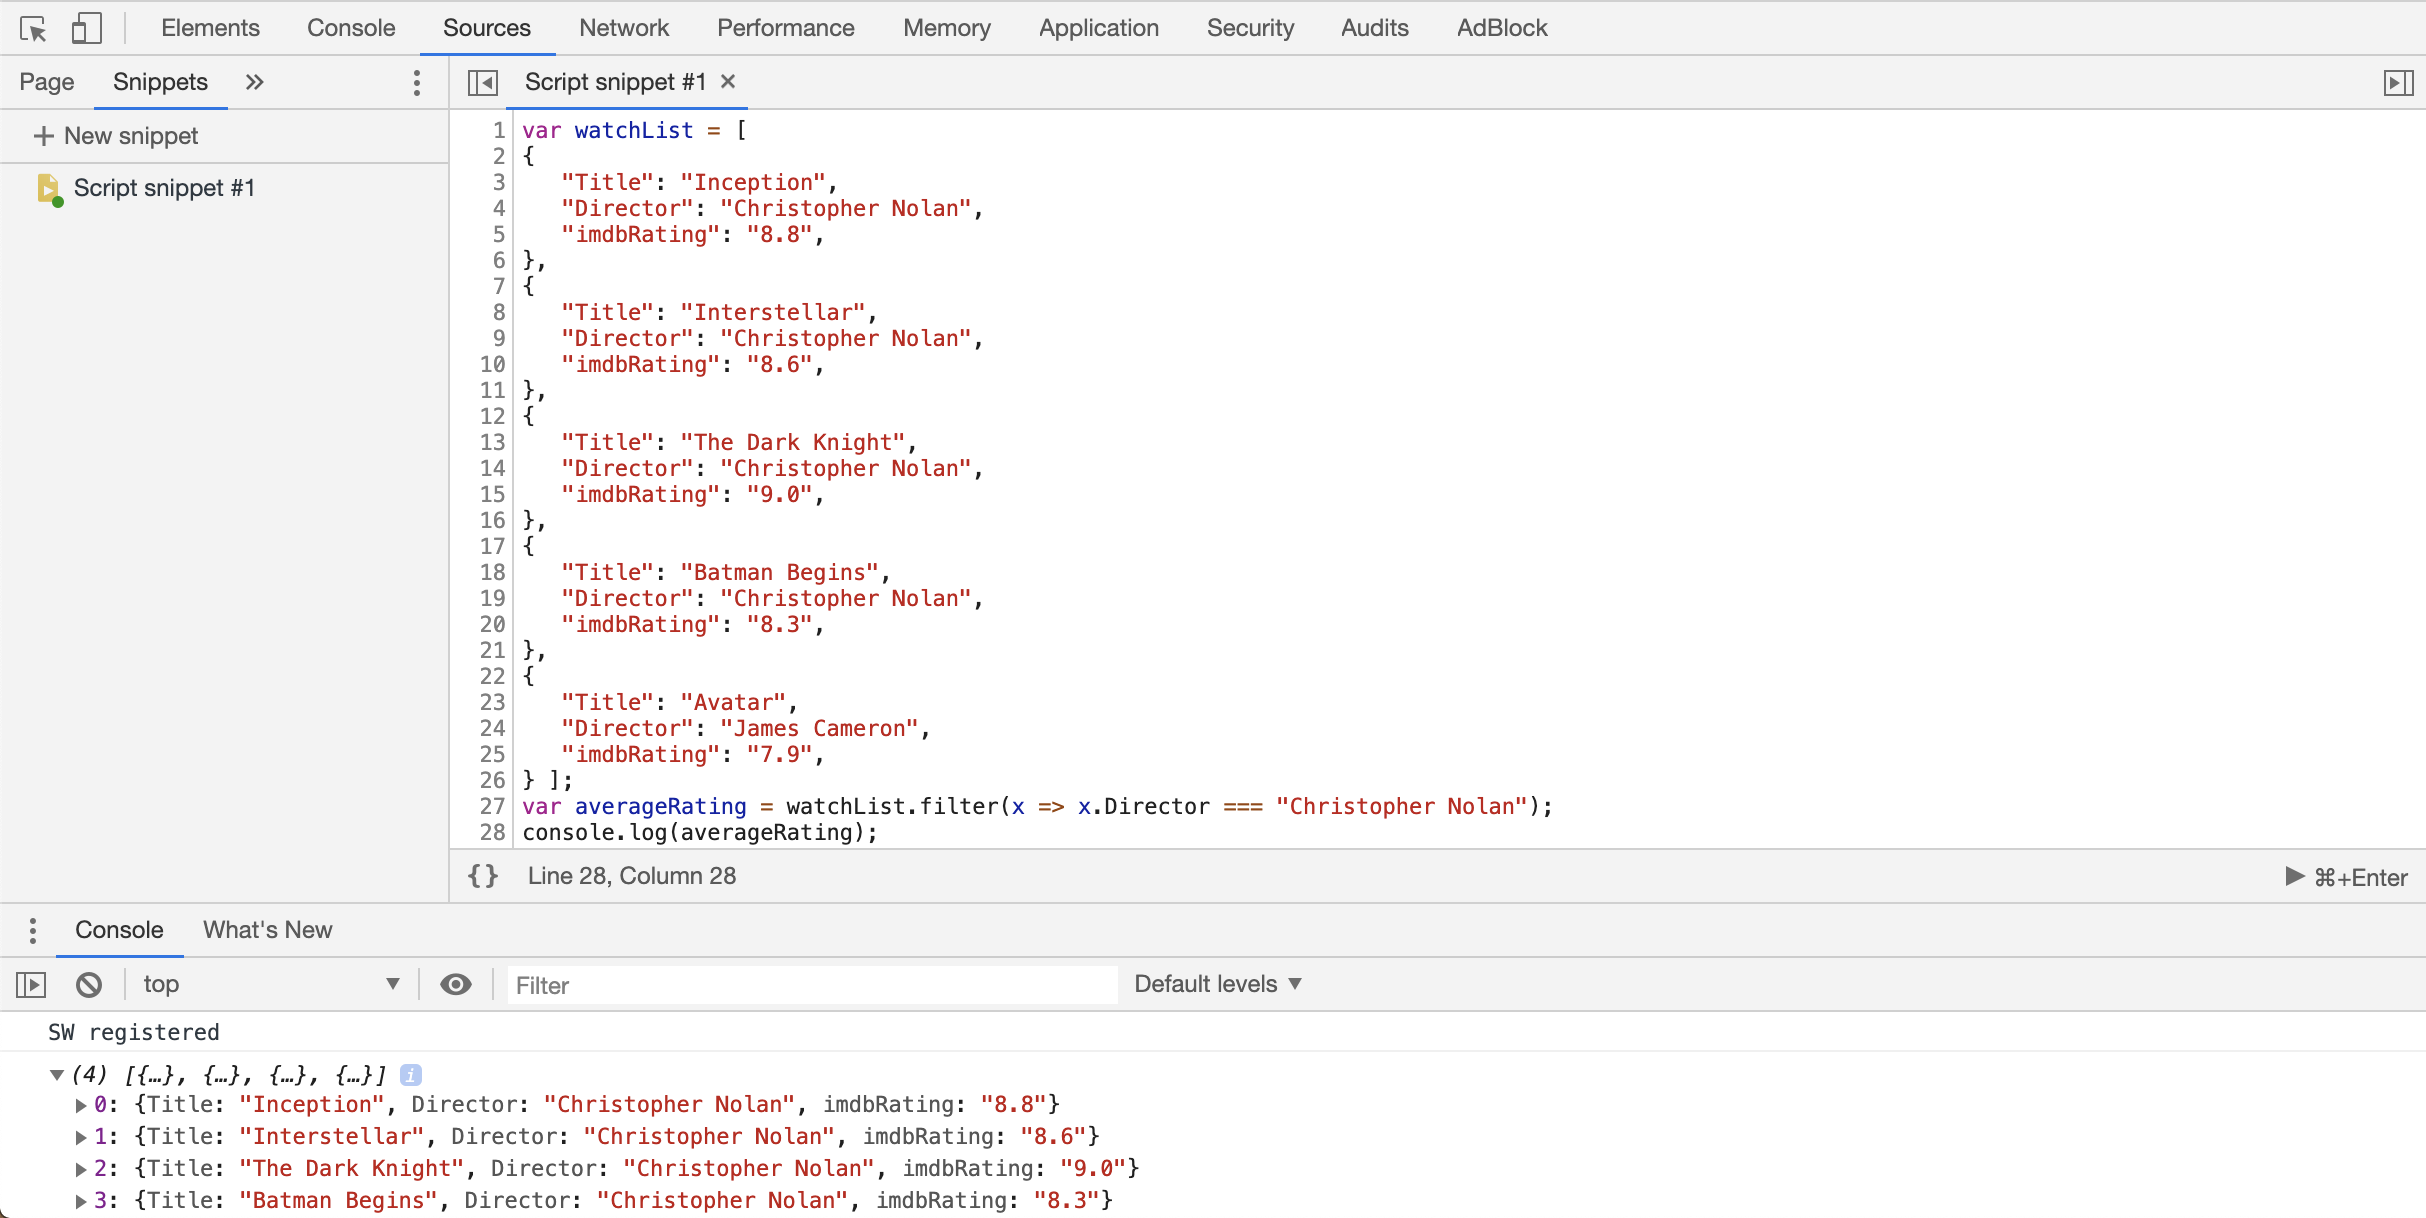
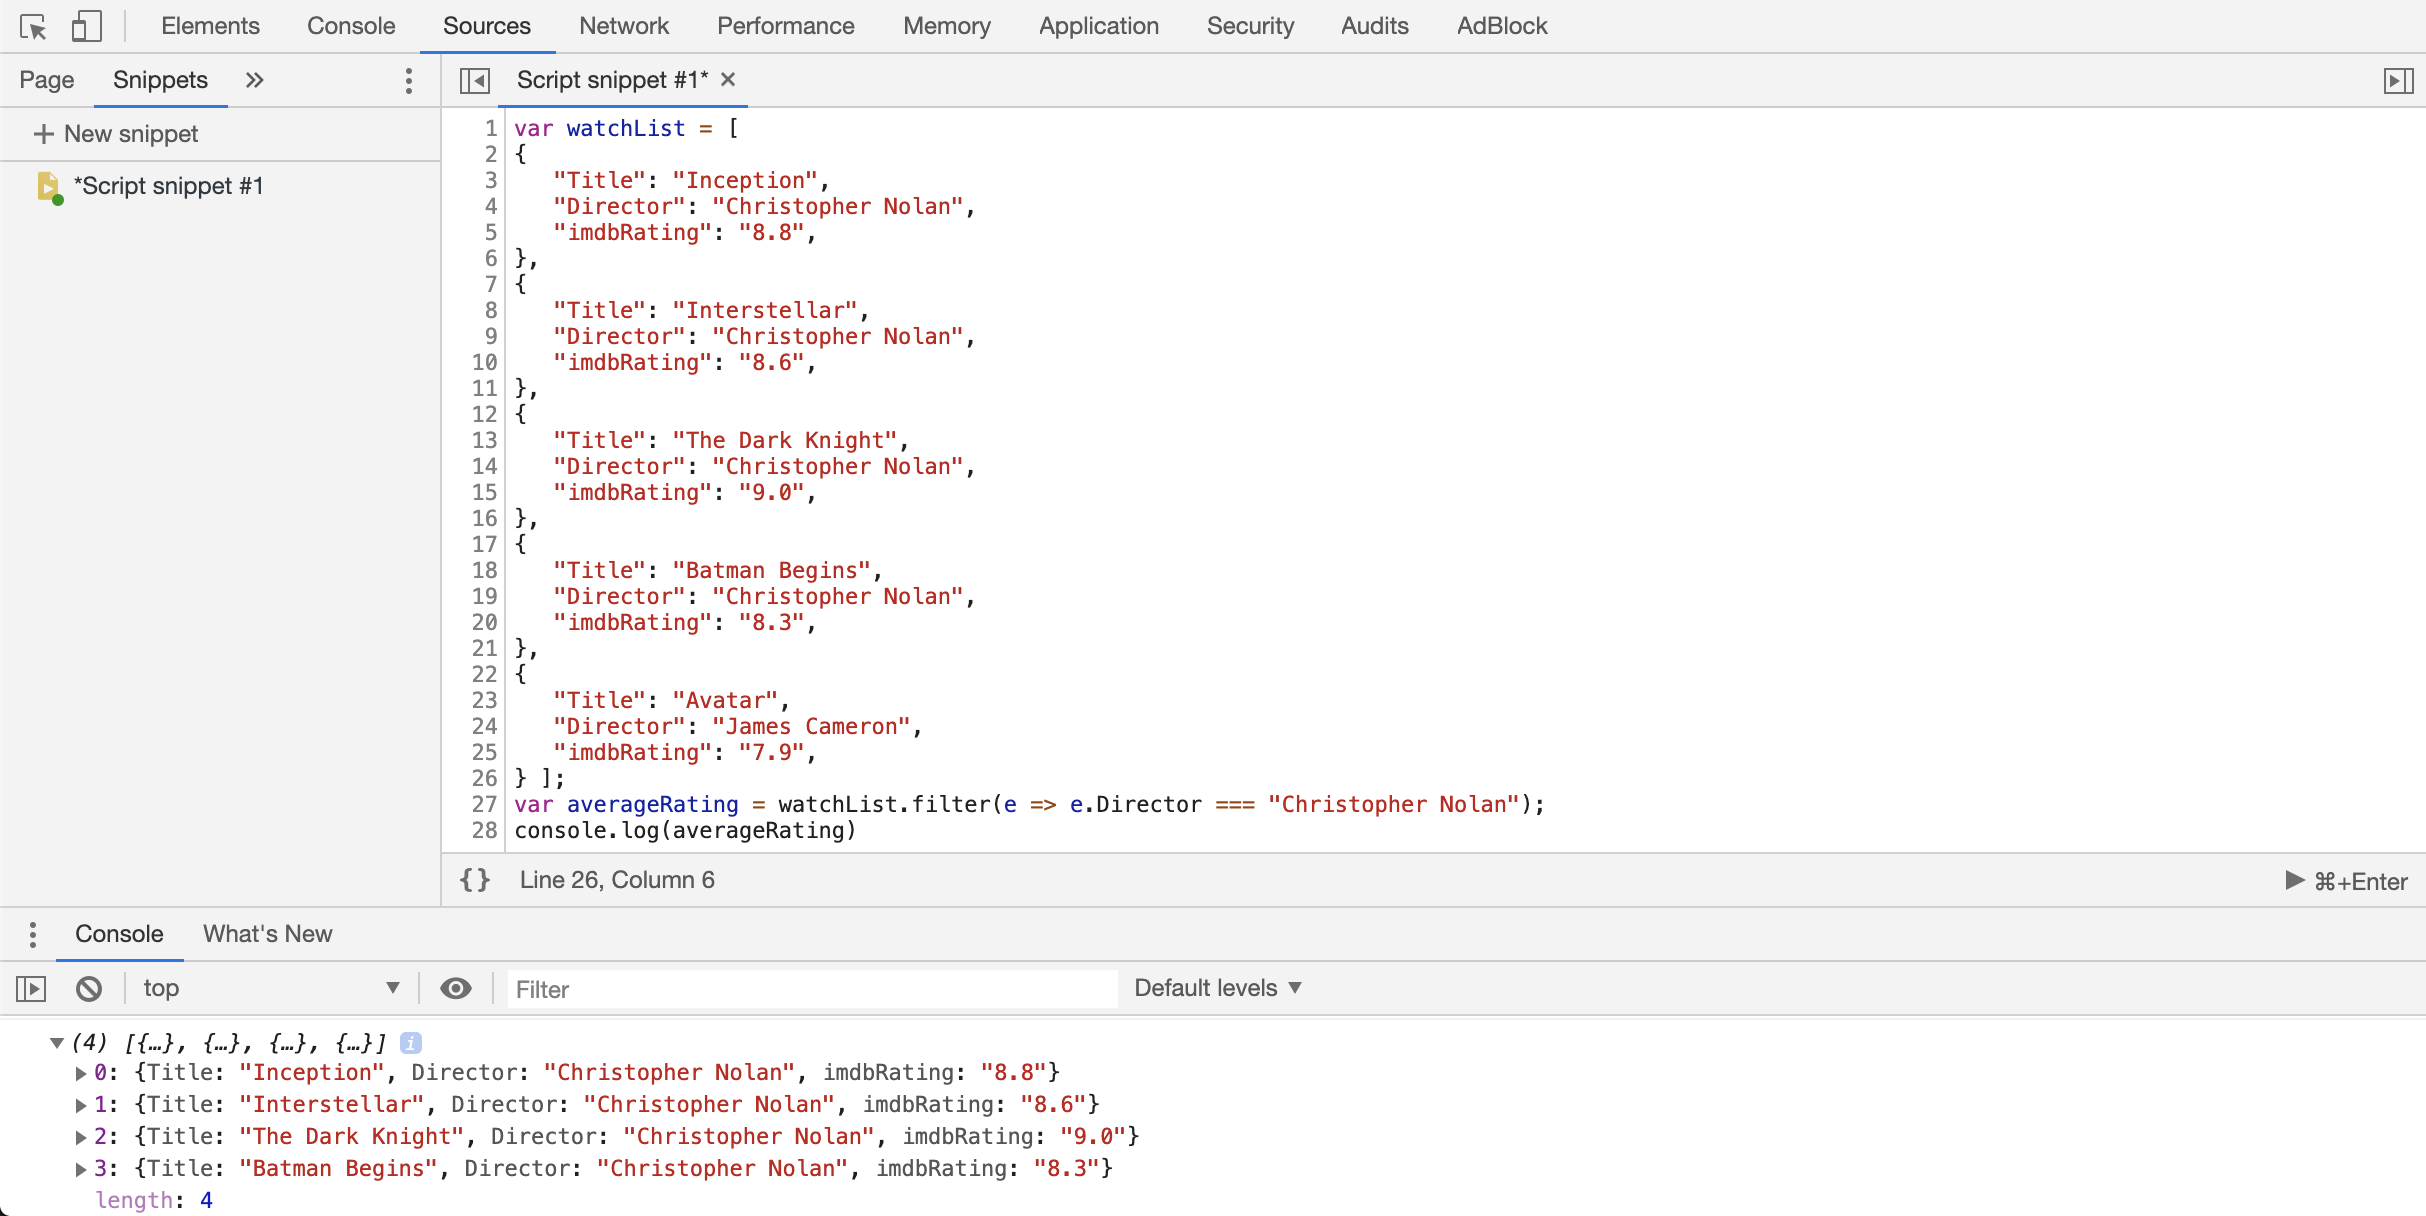
bugfix

Changed region(s): [[0.0, 0.0, 1.0, 0.75], [0.0, 0.75, 0.4637, 1.0], [0.4637, 0.7812, 0.5565, 0.8438]]

diff --git a/educationstation/index.html b/educationstation/index.html
@@ -694,6 +694,11 @@
   <br><br><br>
   <h4><a href="https://www.codewars.com/kata/514b92a657cdc65150000006">Multiples of 3 or 5</a></h4>
   <br><br>
+  <p>
+    If we list all the natural numbers below 10 that are multiples of 3 or 5, we get 3, 5, 6 and 9. The sum of these multiples is 23.
+    <br>
+    <br> Finish the solution so that it returns the sum of all the multiples of 3 or 5 below the number passed in.
+  </p><br><br>
     <div>
         <p>This kind of function is usually connected with loops, you iterate to certain number with some couple conditions have to be met to return the total.</p>
         <p>You can also do it with for loops and then use an if else statement inside the loop </p>
@@ -839,7 +844,7 @@
                                                    
                                                    <br><br>
                                                    //Put your code here <br>
-                                                   var averageRating = watchList.filter(x => e.Director === "Christopher Nolan").<br>map(x => Number(e.imdbRating)).<br>reduce((x1, x2) => x1 + x2) / watchList.filter(x => x.Director === "Christopher Nolan").length;
+                                                   var averageRating = watchList.filter(e => e.Director === "Christopher Nolan").<br>map(e => Number(e.imdbRating)).<br>reduce((e1, e2) => e1 + e2) / watchList.filter(e => e.Director === "Christopher Nolan").length;
                                                    
                                                    <br> <br>
                                                    
@@ -847,11 +852,11 @@
                                                             </code></p> <br><br><br>
                                                             <h3>What is going on here?</h3>
                                                             <br><br>
-                                                            <h5>So first, you store your code inside a variable <code>averageRating</code>, then you filter, filter can do (x=>{}) because its a <a href="https://medium.com/javascript-scene/higher-order-functions-composing-software-5365cf2cbe99">higher order function</a>, its called higher order function because you take function as an argument inside your filter function, <code>x => x.Director === "Christopher Nolan"</code>.(=>) is an ES6 arrow function, it's basically the same as <code>function(x){ // }</code> , and in the inside it wants to access the director that equals with Christopher Nolan, remember " " for the string. </h5>
+                                                            <h5>So first, you store your code inside a variable <code>averageRating</code>, then you filter, filter can do (e=>{}) because its a <a href="https://medium.com/javascript-scene/higher-order-functions-composing-software-5365cf2cbe99">higher order function</a>, its called higher order function because you take function as an argument inside your filter function, <code>e => e.Director === "Christopher Nolan"</code>.(=>) is an ES6 arrow function, it's basically the same as <code>function(e){ // }</code> , and in the inside it wants to access the director that equals with Christopher Nolan, remember " " for the string. </h5>
                                                             <br>
-                                                            <h5 style="color:#3CA1FF">Did that line of code just filtered all films that was directed by Chrisopher Nolan?</h5>
+                                                            <h5 style="color:#3CA1FF">Did that line of code just filtered all films that was directed by Christopher Nolan?</h5>
                                                             <br>
-                                                            <p><code>var averageRating = watchList.filter(x => x.Director === "Christopher Nolan");</code></p>
+                                                            <p><code>var averageRating = watchList.filter(e => e.Director === "Christopher Nolan");</code></p>
                                                             <br>
                                                             <br>
                                                             <p>Let's test it by <code>console.log(averageRating)</code>. you can do copy paste the code and run it in developer tool in Chrome too.</p>
@@ -880,9 +885,9 @@
                                                                  <br> 2: {title: "The Dark Knight"}
                                                                  <br> 3: {title: "Batman Begins"}
                                                             </code></p><br><br>
-                                                            <h5 style="color:#3CA1FF">Now lets go to <code>.map(x => Number(e.imdbRating))</code> part, the averageRating in the challenge hasn't been explained.</h5><br><br>
+                                                            <h5 style="color:#3CA1FF">Now lets go to <code>.map(e => Number(e.imdbRating))</code> part, the averageRating in the challenge hasn't been explained.</h5><br><br>
                                                             <p><a href="https://www.w3schools.com/jsref/jsref_number.asp">Number()</a> is a Javascript method to convert variables to numbers. So if you see carefully, imdbRating has data typeof string, indicated by " ". To calculate the average, you have to change it to number. Map helped you to convert all the imdbRating property inside the array to number with that single line of code.</p><br>
-                                                            <h5 style="color:#3CA1FF">What about <br><br> <code>reduce((x1, x2) => x1 + x2) / watchList.filter(x => x.Director === "Christopher Nolan").length;</code>?</h5>
+                                                            <h5 style="color:#3CA1FF">What about <br><br> <code>reduce((e1, e2) => e1 + e2) / watchList.filter(e => e.Director === "Christopher Nolan").length;</code>?</h5>
                                             
                                                             <p style="color:#3CA1FF">Well, we can see the division math operator, so this is the part where the code calculate the average by using <a href="https://www.w3schools.com/jsref/jsref_reduce.asp">reduce</a>.</p>
                                                             <p style="color:#FF7777">In the first part, they simply sum all the imdbRating that we just mapped before, and then we divide it with the length of an array that was directed by Christopher Nolan, which is 4, from 0 , 1 , 2, 3 indexes.</p>
